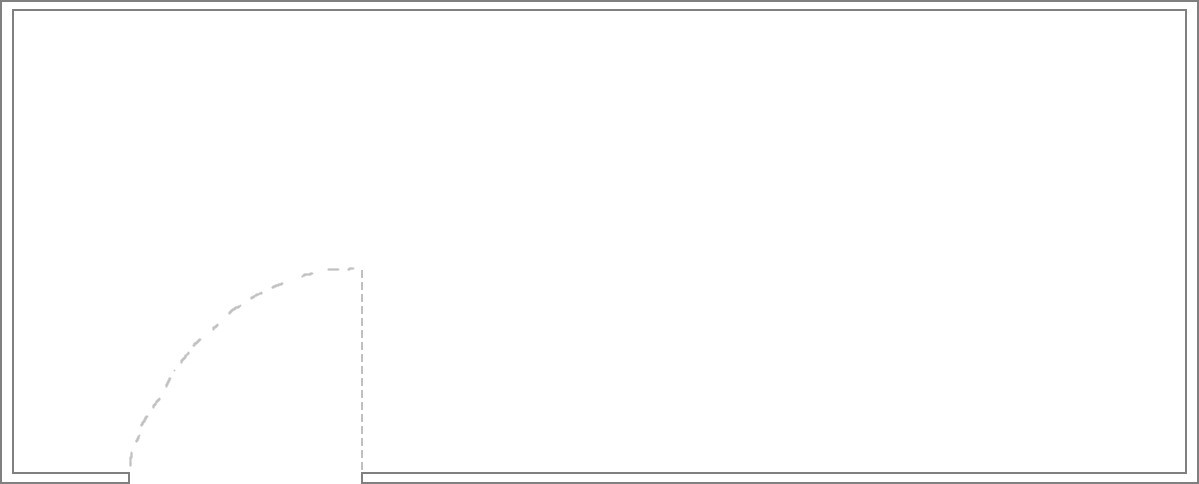
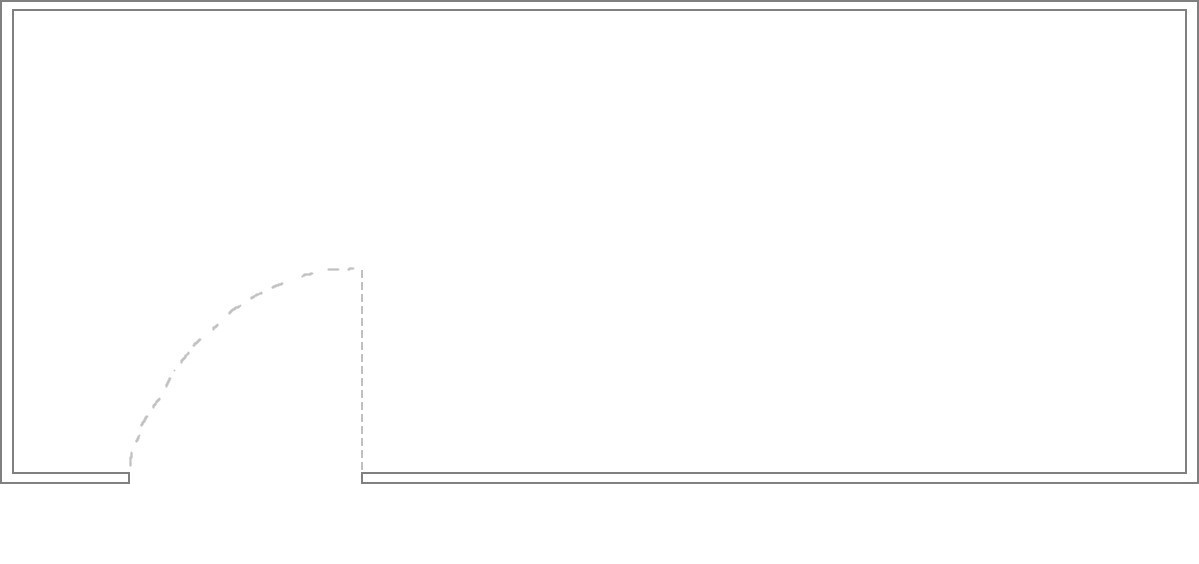
Draggable and trash systems implemented.
- Container grid design improved (hidden scrollbar, better UI)

Changed region(s): [[0.2777, 0.8368, 1.0, 1.0], [0.0, 0.0, 0.9875, 0.031], [0.0, 0.8368, 0.1234, 1.0]]

diff --git a/index.html b/index.html
@@ -20,7 +20,9 @@
         .container {
           padding-top: 12px;
           padding-bottom: 12px;
+          background-position: bottom;
           background-image: url("./img/plan-tiny-test.jpg");
+          background-repeat: no-repeat;
         }
 
         .grid-stack {
@@ -62,21 +64,20 @@
         .grid-stack > .grid-stack-item[data-gs-x="2"] !important { left: 40% }
         .grid-stack > .grid-stack-item[data-gs-x="1"] !important { left: 20% }
 
-
         /* Trash, drag */
         .grid-stack-item-removing {
             opacity: 0.5;
         }
 
         .trash {
-            height: 150px;
+            height: 140px;
             margin-bottom: 20px;
[1 lines of base64/hex data omitted]
         }
 
         .sidebar {
             background: rgba(0, 255, 0, 0.1);
-            height: 150px;
+            height: 140px;
             padding: 25px 0;
             text-align: center;
         }
@@ -95,6 +96,10 @@
 
         .sidebar .grid-stack-item .grid-stack-item-content {
             background: none;
+        }
+
+        .no-scrollbar {
+          overflow: hidden !important;
         }
     </style>
   </head>
@@ -131,13 +136,16 @@
 
           <div class="row">
             <div class="medium-12 column container">
+              <!-- GRID STACK -->
               <div class="grid-stack" id="container-grid-stack">
-              <div class="grid-stack-item" data-gs-x="0" data-gs-y="0" data-gs-width="12" data-gs-height="6" data-gs-no-resize="true" data-gs-no-move="true">
-              <div class="grid-stack-item-content">
+              <div class="grid-stack-item" data-gs-x="0" data-gs-y="0" data-gs-width="12" data-gs-height="9" data-gs-no-resize="true" data-gs-no-move="true">
+              <div class="grid-stack-item-content no-scrollbar">
+                <!-- Draggable items & trash HTML containers -->
                 <div class="row">
                   <div class="large-8 columns">
                       <div class="sidebar">
-                          <div class="grid-stack-item"><div class="grid-stack-item-content">Drag me</div></div>
+                        <div class="grid-stack-item"><div class="grid-stack-item-content">Table</div></div>
+                        <div class="grid-stack-item"><div class="grid-stack-item-content">Bed</div></div>
                       </div>
                   </div>
                   <div class="large-4 columns">
@@ -145,32 +153,17 @@
                       </div>
                   </div>
                 </div>
-                <div class="grid-stack" id="primary-grid-stack" style="background: red;">
+                <!-- Nested grid-stack containers -->
+                <div class="grid-stack" id="primary-grid-stack">
                   <!-- Init primary-grid by setting a hidden item -->
-                  <div class="grid-stack-item" data-gs-width="12" data-gs-height="1" data-gs-no-resize="true" data-gs-no-move="true">
-                    <div class="grid-stack-item-content" style="border: none !important;"></div>
+                  <div class="grid-stack-item" data-gs-width="12" data-gs-height="6" data-gs-no-resize="true" data-gs-no-move="true">
+<!-- TODO better style--> <div class="grid-stack-item-content" style="border: none !important;"></div>
                   </div>
                 </div>
               </div>
               </div>
               </div>
-
-              <!-- END 0.2 -->
-
-              <!-- 0.1
-              <div class="grid-stack">
-                <div class="grid-stack-item" data-gs-x="0" data-gs-y="0" data-gs-width="12" data-gs-height="6" data-gs-no-resize="true" data-gs-no-move="true">
-                  <div class="grid-stack-item-content">
-                    <div class="grid-stack" id="grid-stack-primary" style="background: red;">
-                      <div class="grid-stack-item" data-gs-x="4" data-gs-y="4" data-gs-width="2" data-gs-height="2">
-                          <div class="grid-stack-item-content">Table</div>
-                      </div>
-                    </div>
-                  </div>
-                </div>
-              </div -->
               <!-- END GRID STACK -->
-
             </div>
           </div>
 
@@ -194,6 +187,7 @@
     <script>
       $(document).foundation();
     </script>
+
     <script type="text/javascript">
         $(function () {
             var primary_options = {
@@ -203,9 +197,9 @@
                 acceptWidgets: '.grid-stack-item'
             };
             var container_options = {
+                // DEPRECATED COMMENT - Needed to put container-grid-stack at the position 0:2 in order to see drag & trash <div> above it.
                 float: false
             };
-            //$('.grid-stack').gridstack(options);
             $('#primary-grid-stack').gridstack(primary_options);
             $('#container-grid-stack').gridstack(container_options);
 
@@ -260,29 +254,6 @@
                   scroll: false,
                   appendTo: 'body'
                 });
-
-                /*$('.grid-stack').each(function () {
-                  var grid = $(this).data('gridstack');
-
-                  _.each(items, function (node) {
-                      grid.addWidget($('<div><div class="grid-stack-item-content" /><div/>'),
-                          node.x, node.y, node.width, node.height);
-                  }, this);
-                });*/
-
-                /*
-                this.addNewWidget = function () {
-                    var node = this.items.pop() || {
-                                x: 12 * Math.random(),
-                                y: 5 * Math.random(),
-                                width: 1 + 3 * Math.random(),
-                                height: 1 + 3 * Math.random()
-                            };
-                    this.grid.addWidget($('<div><div class="grid-stack-item-content" /><div/>'),
-                        node.x, node.y, node.width, node.height);
-                    return false;
-                }.bind(this);
-                */
 
                 $('#add-widget-one').click(this.addNewWidgetOne);
                 $('#add-widget-two').click(this.addNewWidgetTwo);
